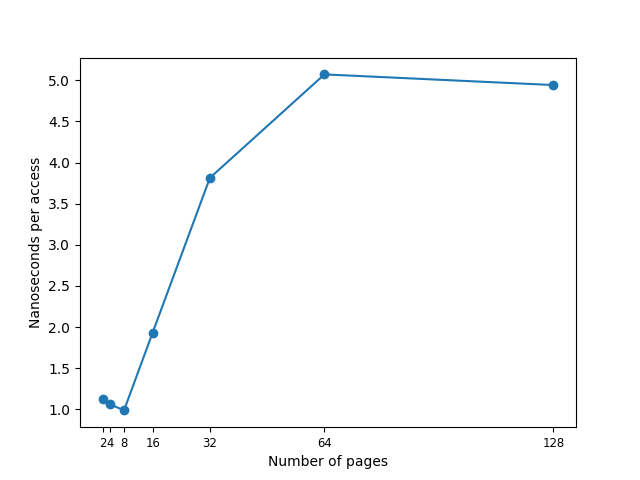
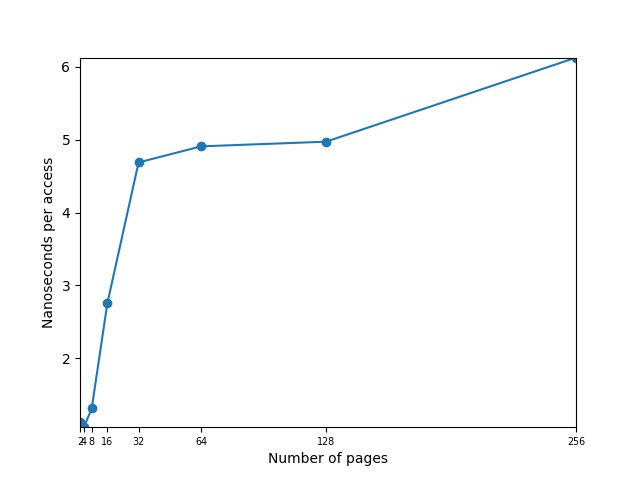
fixed segfault from variable arr size

diff --git a/tlb.c b/tlb.c
@@ -3,7 +3,6 @@
 #include <sched.h>
 #include <stdio.h>
 #include <stdlib.h>
-#include <string.h>
 #include <time.h>
 #include <unistd.h>
 
@@ -22,10 +21,7 @@ int main(int argc, char **argv)
 	int num_trials = atoi(argv[1]);
 	int num_pages = atoi(argv[2]);
 
-	int a[num_pages * jump];
-
-	// init array to 0 to avoid demand paging showing up in loop
-	memset(a, 0, num_pages * jump);
+	int *a = calloc(num_pages, page_size);
 
 	struct timespec start, end;
 

diff --git a/run.py b/run.py
@@ -23,9 +23,12 @@ for i in range(powers):
     y.append(float(result.stdout.decode()))
     num_pages *= 2
 
+print(x)
+print(y)
+
 plt.plot(x, y, marker="o")
 
-plt.xticks(x, x, fontsize="small")
+plt.xticks(x, x, fontsize="x-small")
 plt.xlabel("Number of pages")
 plt.ylabel("Nanoseconds per access")
 
